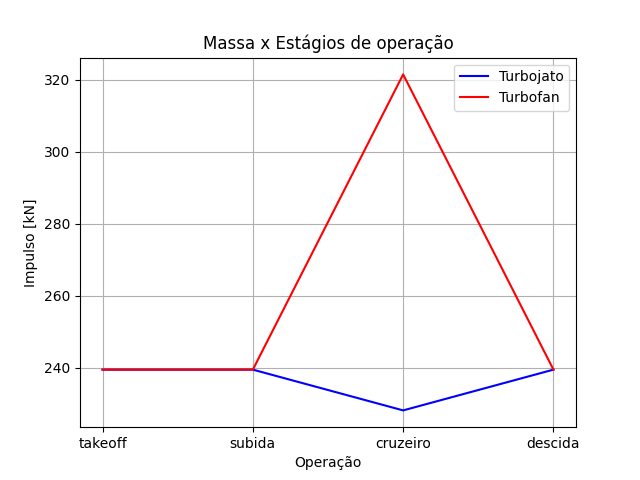
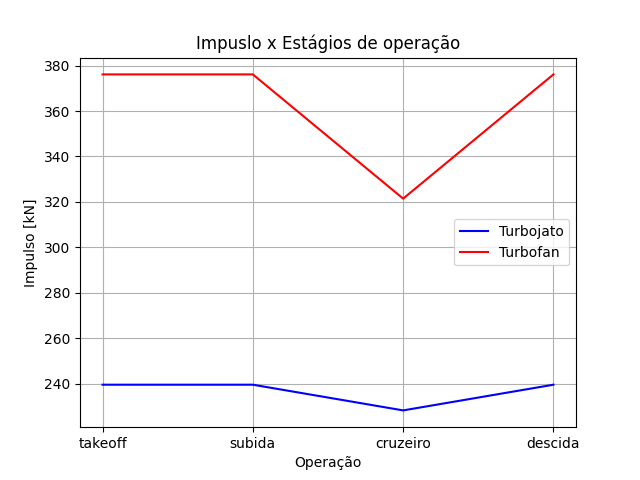
Versão final do código da disciplina

diff --git a/main.py b/main.py
@@ -104,7 +104,7 @@ MfuelMissionj.append(m_cru-m_wetj)
 FnMissionj.append(Fn_totcru)
 Mj.append(m_cru)
 print("\nCRUZEIRO "+10*'-')
-print(f"Vel. de cruzeiro   : {ucru*3.6} [km/h]")
+print(f"Vel. de cruzeiro   : {u_cru*3.6} [km/h]")
 print(f'Mach de cruzeiro   : {M_cru}')
 print(f'Tempo de cruzeiro  : {t_cru/3600} h')
 print(f'Massa após cruzeito: {m_cru} kg')
@@ -200,7 +200,7 @@ M_to    = u0/np.sqrt(k*R*Tad)
 
 _,_,Fnd,TSFCd,_ =en.turbofan(B, PCI, m0f, picf, pifan, T04, Pad, Tad, M_to, cp = cpd) 
 TSFCd/=3600
-
+Fn_tot  = nengf*Fnd
 a_med   = g*(Fn_tot-0.02*W0)/W0
 d_to    = V_lo**2/(2*a_med)
 t_to    = V_lo/(2*a_med)
@@ -265,7 +265,7 @@ FnMissionf.append(Fn_totcru)
 Mf.append(m_cru)
 
 print("\nCRUZEIRO "+10*'-')
-print(f"Vel. de cruzeiro   : {ucru*3.6} [km/h]")
+print(f"Vel. de cruzeiro   : {u_cru} [m/s]")
 print(f'Mach de cruzeiro   : {M_cru}')
 print(f'Tempo de cruzeiro  : {t_cru/3600} h')
 print(f'Massa após cruzeito: {m_cru} kg')
